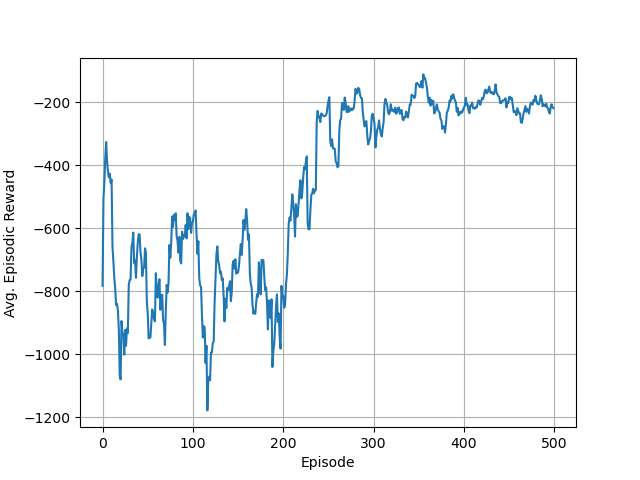
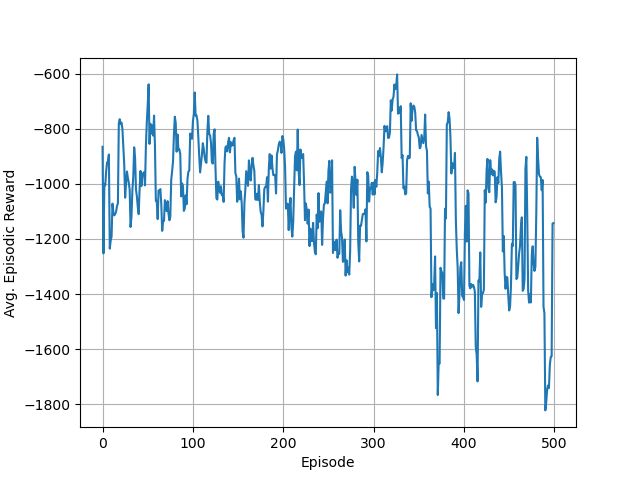
adds batchnorm to critic output layer

diff --git a/ddpg.py b/ddpg.py
@@ -46,14 +46,14 @@ if problem == 'Pendulum-v1':
 elif problem == 'MountainCarContinuous-v0':
     tau = 0.001
     gamma = 0.99
-    actor_lr = 0.0001
-    critic_lr = 0.001
+    actor_lr = 0.00005
+    critic_lr = 0.0005
     buffer_size = 10000
-    batch_size = 40
+    batch_size = 128
     noise_stddev = 0.2
     target_noise_stddev = 0.1
     hidden_layers_shape = (400,300)
-    epsilon_decay = 0.98
+    epsilon_decay = 0.99
     linear_epsilon_decay = 0.003
     exponential_epsilon_decay = 0.99
     min_epsilon = 0.01
@@ -64,7 +64,7 @@ elif problem == 'LunarLanderContinuous-v2':
     critic_lr = 0.001
     buffer_size = 10000
     batch_size = 40
-    noise_stddev = 0.4
+    noise_stddev = 0.2
     target_noise_stddev = 0.1
     hidden_layers_shape = (400,300)
     linear_epsilon_decay = 0.004
@@ -250,6 +250,7 @@ def get_critic(hidden_layers_shape):
     if batch_norm: net = layers.BatchNormalization()(net)
     out = layers.Activation('relu')(net)
 
+    if batch_norm: net = layers.BatchNormalization()(net)
     Q_value = layers.Dense(1)(out)
 
     # Outputs single value for give state-action

diff --git a/README.md b/README.md
@@ -136,4 +136,5 @@ Final score in this experiment is irrevant as the algorithm was unstable. Hyperp
 ## TASK 4: Lunar Lander Continuous
 Currently working on this, stay tuned.
 
-
+Best results so far. Uses TD3 features, parameter noise and batch normalization.
+![Alt text](/images/lunar_best_so_far.png?raw=true "Lunar Lander Continuous v2")
